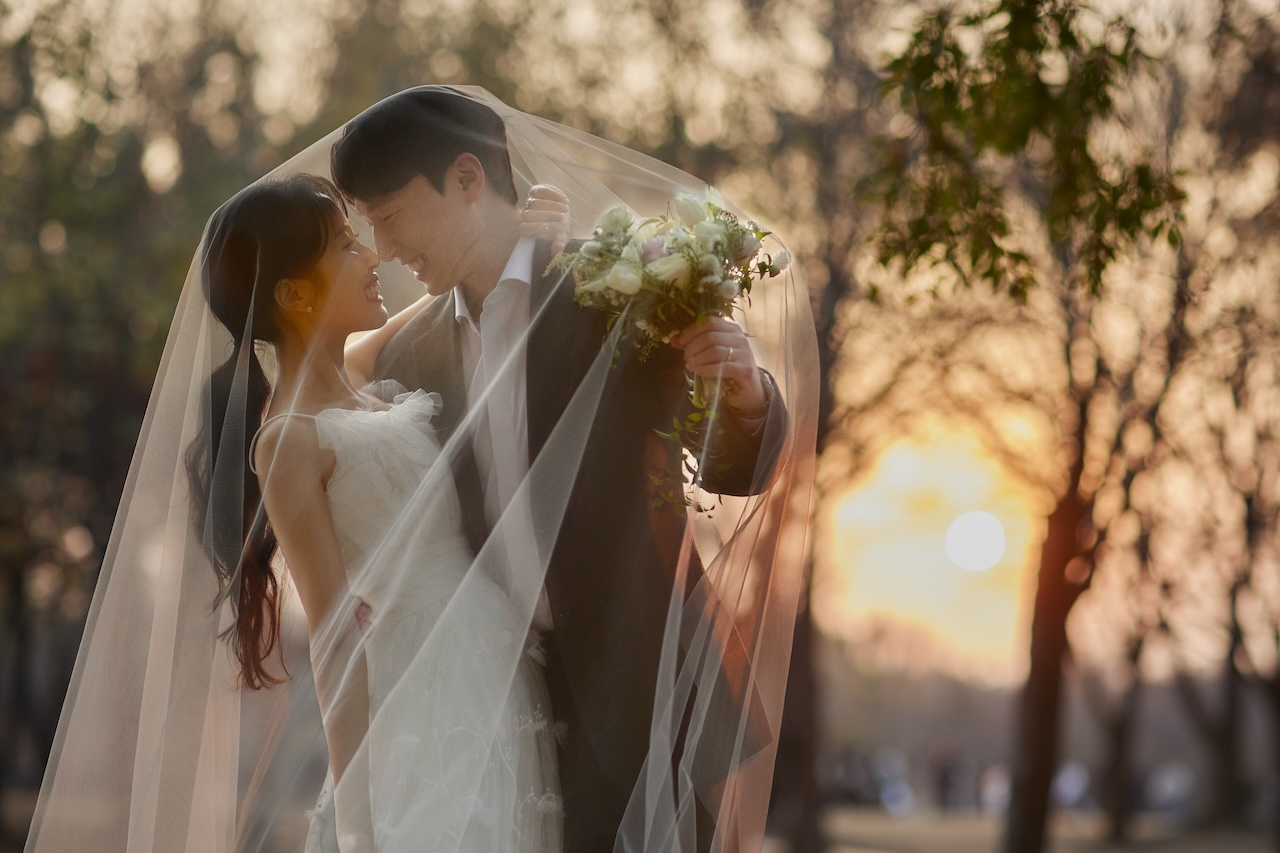
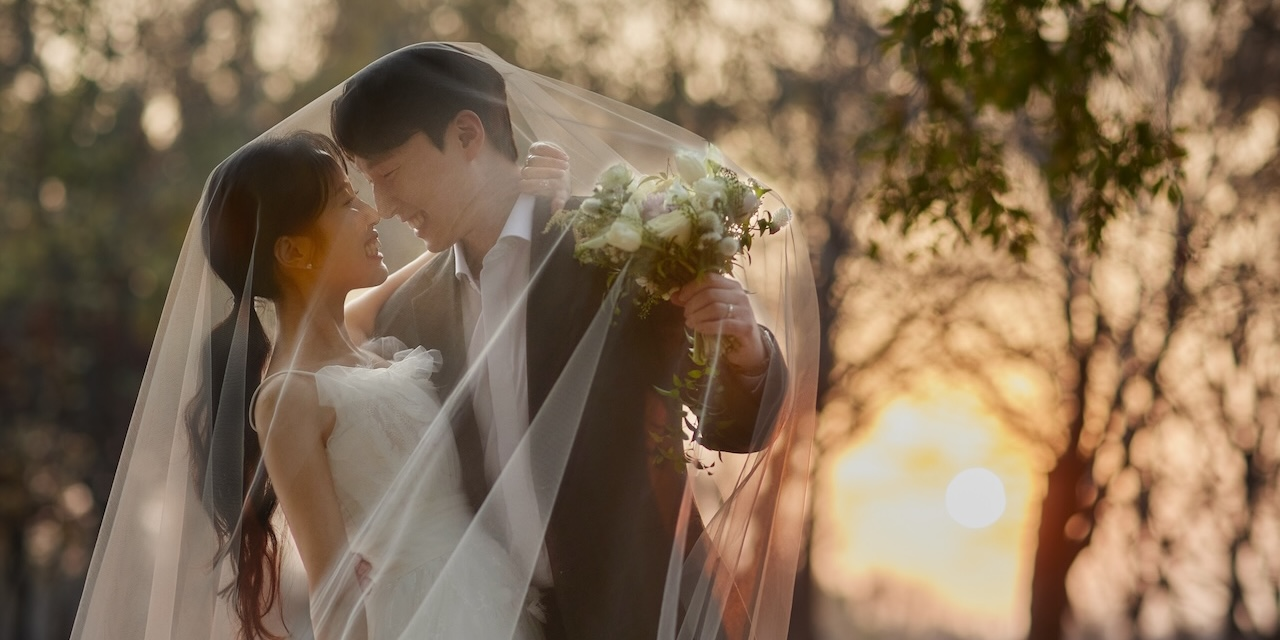
crop thumbnail

diff --git a/index.html b/index.html
@@ -260,7 +260,7 @@
       }
     </style>
     <meta charset="UTF-8" />
-    <meta property="og:image" content="./src/Thumbnail2.jpg" />
+    <meta property="og:image" content="./src/Thumbnail.jpg" />
     <meta property="og:title" content="박현근 ♥ 장원영, 결혼합니다!" />
     <meta property="og:description" content="모바일 청첩장" />
     <meta http-equiv="X-UA-Compatible" content="IE=edge" />
